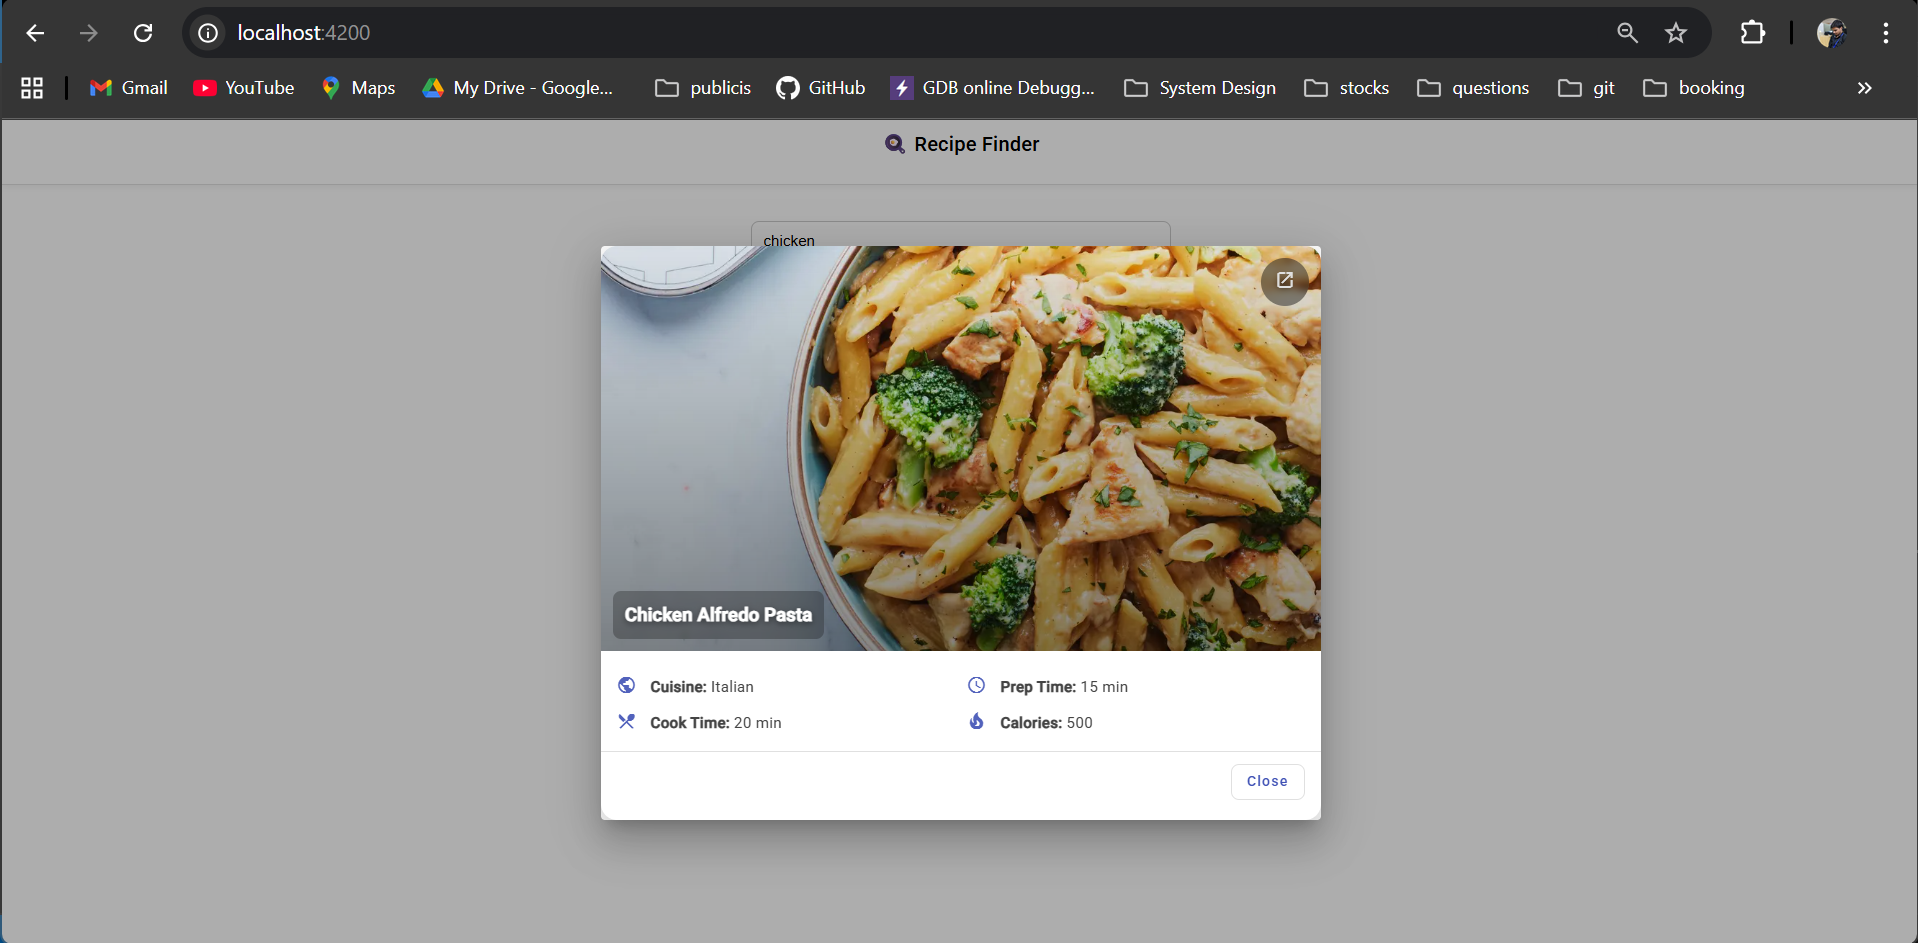
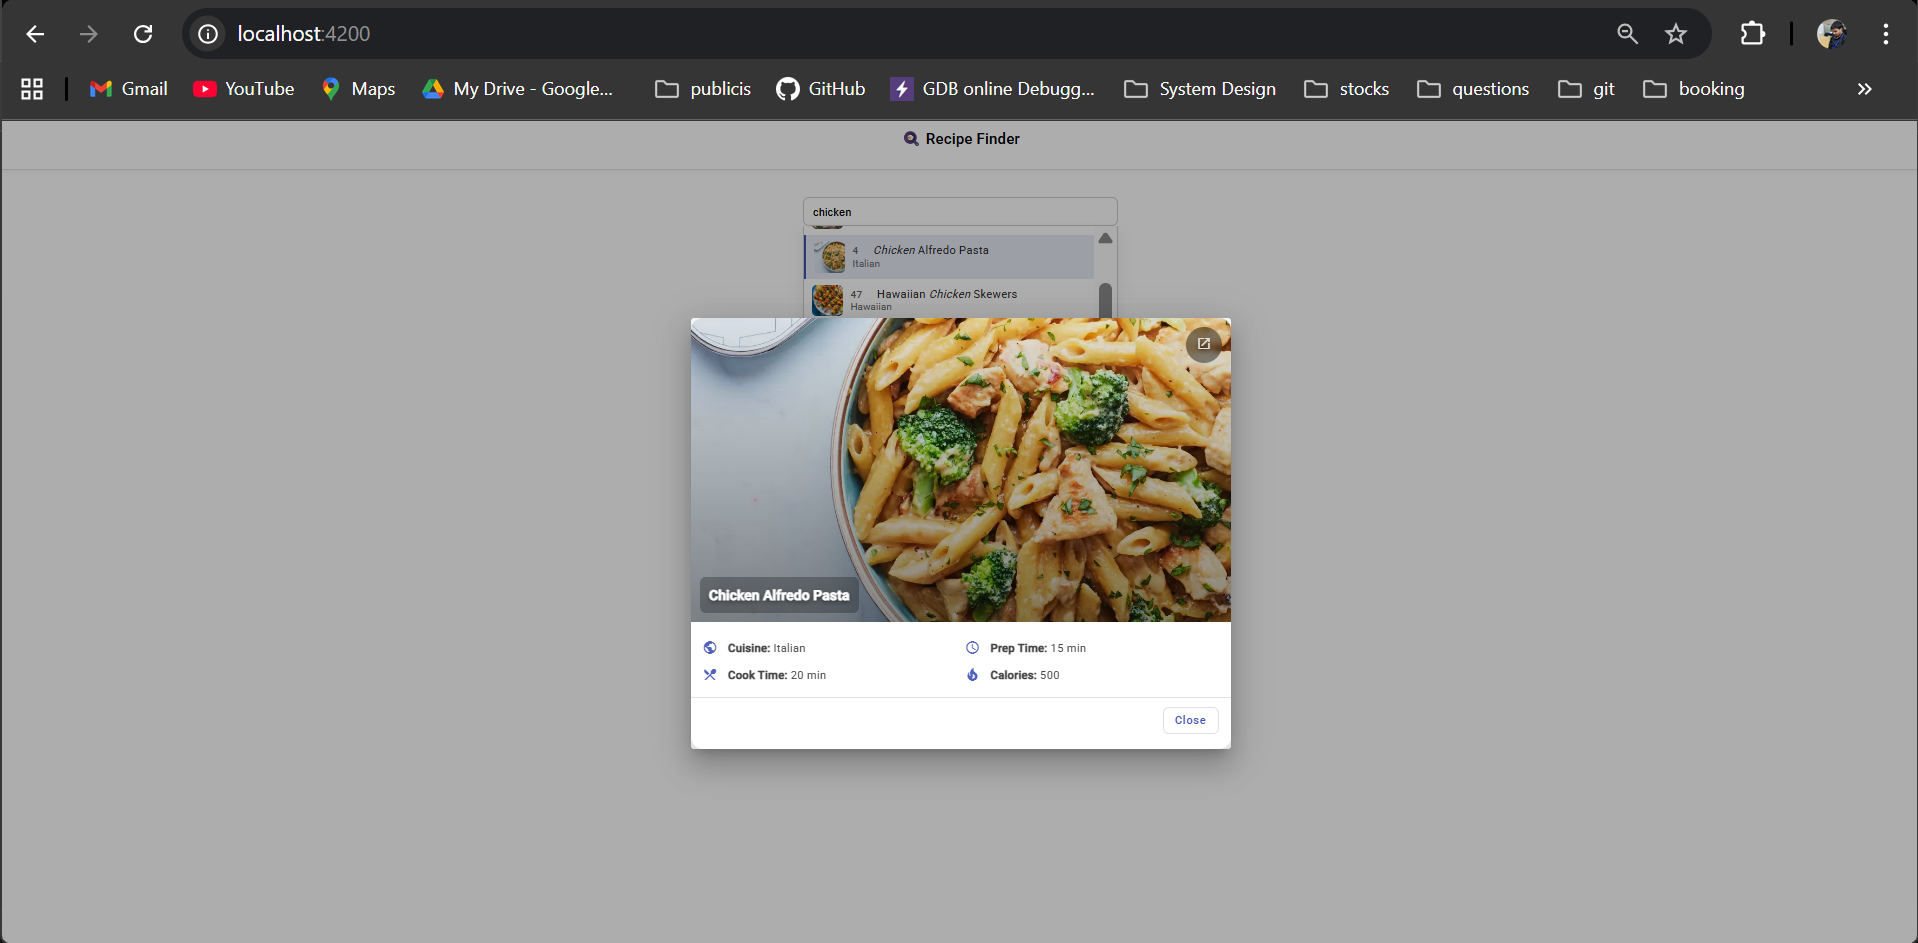
Added keyboard navigation support on search results and recorded a gif demo

Changed region(s): [[0.3076, 0.2153, 0.7075, 0.8918], [0.0308, 0.0923, 0.9844, 0.1845], [0.123, 0.0308, 0.1846, 0.0615]]

diff --git a/src/app/components/search-bar/search-bar.component.ts b/src/app/components/search-bar/search-bar.component.ts
@@ -1,7 +1,6 @@
-import { Component } from '@angular/core';
+import { Component, HostListener } from '@angular/core';
 import { RecipeService } from '../../services/recipe.service';
 import { of, Subject, debounceTime, distinctUntilChanged, switchMap } from 'rxjs';
-
 import { MatDialog } from '@angular/material/dialog';
 import { RecipeDetailsComponent } from '../recipe-details/recipe-details.component';
 import { Recipe } from 'src/app/models/recipe.model';
@@ -12,9 +11,9 @@ import { Recipe } from 'src/app/models/recipe.model';
   styleUrls: ['./search-bar.component.css']
 })
 export class SearchBarComponent {
-
   query = '';
   recipes: Recipe[] = [];
+  selectedIndex = -1; // track highlighted recipe
   private searchSubject = new Subject<string>();
 
   constructor(private recipeService: RecipeService, private dialog: MatDialog) {
@@ -28,28 +27,70 @@ export class SearchBarComponent {
           return of([]); // clear results immediately
         }
       })
-    ).subscribe(data => this.recipes = data);
+    ).subscribe(data => {
+      this.recipes = data;
+      this.selectedIndex = -1; // reset selection after new search
+    });
   }
 
   onSearchChange(value: string) {
     this.query = value.trim();
 
-    // ✅ Immediately clear results (before debounce delay)
     if (!this.query || this.query.length < 3) {
       this.recipes = [];
+      this.selectedIndex = -1;
     }
 
-    // ✅ Always emit value — pipeline decides if fetch or clear
     this.searchSubject.next(this.query);
   }
 
   openDetails(recipe: Recipe) {
     this.dialog.open(RecipeDetailsComponent, {
       width: 'min(80vw, 720px)',
-      panelClass: 'recipe-dialog',      // used by the component CSS rules above
+      panelClass: 'recipe-dialog',
       enterAnimationDuration: '180ms',
       exitAnimationDuration: '140ms',
       data: recipe
     });
   }
+
+  /** 🔹 Handle keyboard navigation */
+  @HostListener('document:keydown', ['$event'])
+  handleKeyDown(event: KeyboardEvent) {
+    if (!this.recipes.length) return;
+
+    if (event.key === 'ArrowDown') {
+      event.preventDefault();
+      this.selectedIndex = (this.selectedIndex + 1) % this.recipes.length;
+      this.scrollToSelected();
+    } else if (event.key === 'ArrowUp') {
+      event.preventDefault();
+      this.selectedIndex = (this.selectedIndex - 1 + this.recipes.length) % this.recipes.length;
+      this.scrollToSelected();
+    } else if (event.key === 'Enter' && this.selectedIndex >= 0) {
+      event.preventDefault();
+      this.openDetails(this.recipes[this.selectedIndex]);
+    }
+  }
+
+  private scrollToSelected() {
+    setTimeout(() => {
+      const list = document.querySelector('.suggestions') as HTMLElement | null;
+      const selected = document.querySelector('.suggestions li.selected') as HTMLElement | null;
+      if (!list || !selected) return;
+
+      const listRect = list.getBoundingClientRect();
+      const selectedRect = selected.getBoundingClientRect();
+
+      // Scroll down if the selected item is below the visible area
+      if (selectedRect.bottom > listRect.bottom) {
+        list.scrollTop += (selectedRect.bottom - listRect.bottom) + 4;
+      }
+      // Scroll up if the selected item is above the visible area
+      else if (selectedRect.top < listRect.top) {
+        list.scrollTop -= (listRect.top - selectedRect.top) + 4;
+      }
+    }, 0);
+  }
+  
 }

diff --git a/src/app/components/search-bar/search-bar.component.html b/src/app/components/search-bar/search-bar.component.html
@@ -1,15 +1,24 @@
 <div class="search-container">
-  <input type="text" [(ngModel)]="query" (input)="onSearchChange(query)" placeholder="Search recipes..."
-    class="search-input" />
-  
-  <!-- Hint shown when user hasn't typed enough -->
+  <input
+    type="text"
+    [(ngModel)]="query"
+    (input)="onSearchChange(query)"
+    placeholder="Search recipes..."
+    class="search-input"
+  />
+
+  <!-- Hint -->
   <p *ngIf="!query || query.length < 3" class="hint">
     Type at least <strong>3</strong> characters to search...
   </p>
 
   <!-- Suggestions list -->
   <ul class="suggestions" *ngIf="recipes.length > 0">
-    <li *ngFor="let r of recipes" (click)="openDetails(r)">
+    <li
+      *ngFor="let r of recipes; let i = index"
+      (click)="openDetails(r)"
+      [class.selected]="i === selectedIndex"
+    >
       <img [src]="r.image" alt="{{r.name}}" width="40" height="40" loading="lazy" class="recipe-thumb">
       <div class="details">
         <div class="line1">
@@ -20,5 +29,4 @@
       </div>
     </li>
   </ul>
-
 </div>

diff --git a/src/app/components/search-bar/search-bar.component.css b/src/app/components/search-bar/search-bar.component.css
@@ -112,3 +112,8 @@
   filter: blur(0);
   opacity: 1;
 }
+
+.suggestions li.selected {
+  background-color: #e8eaf6;
+  border-left: 3px solid #3f51b5;
+}

diff --git a/README.md b/README.md
@@ -6,6 +6,12 @@ It allows users to **search recipes**, view **suggestions dynamically** (typeahe
 
 ---
 
+### 🎥 Demo
+
+![Recipe Finder Demo](./screenshots/demo.gif)
+
+---
+
 ## 🚀 Features
 
 - 🔍 **Dynamic search bar** with typeahead and debounce (min 3 characters)
@@ -14,6 +20,7 @@ It allows users to **search recipes**, view **suggestions dynamically** (typeahe
 - 📜 **Recipe details modal** with clean overlay design
 - 🧭 **Full-page view** for extended recipe details
 - ⚡ Smooth animations and subtle UI effects
+- ⌨ **Keyboard navigation support** — navigate search results using arrow keys and press Enter to open recipe details (auto-scrolls into view)
 
 ---
 
@@ -38,7 +45,7 @@ Quick view of a recipe with essential details.
 ### 📖 Full Recipe Details
 Explore complete recipe details, including ingredients, instructions, and ratings.
 
-| Example 1 | Example 2 |
+| 50% Zoom View | 67% Zoom View |
 |------------|------------|
 | ![Recipe Full Details 1](screenshots/recipe-full-details-1.png) | ![Recipe Full Details 2](screenshots/recipe-full-details-2.png) |
 
